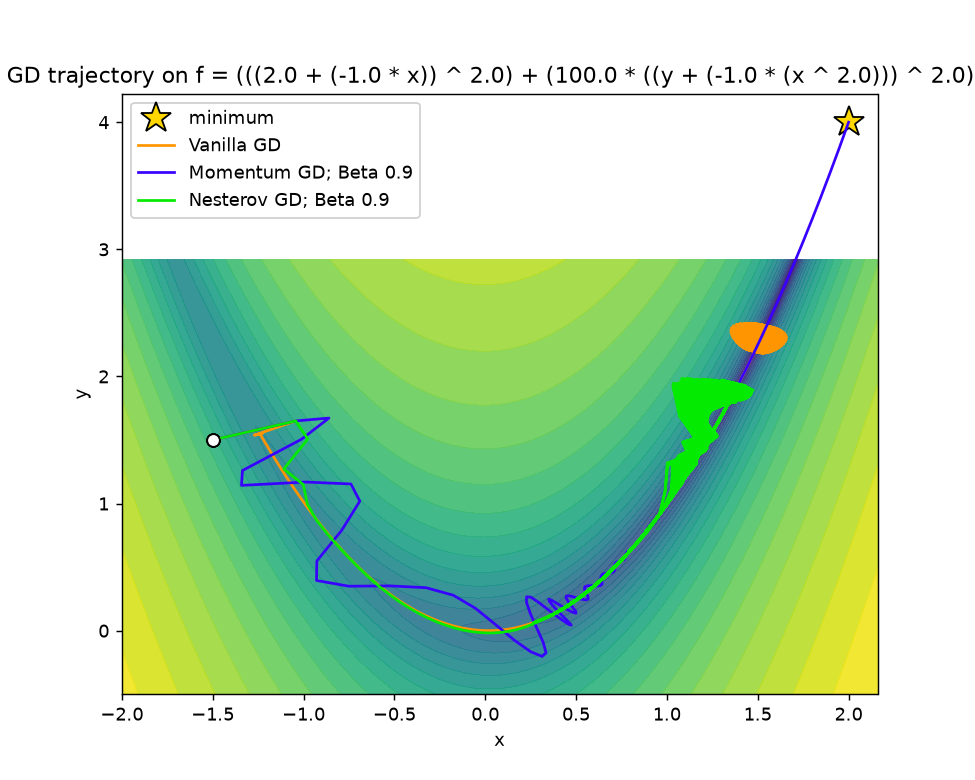
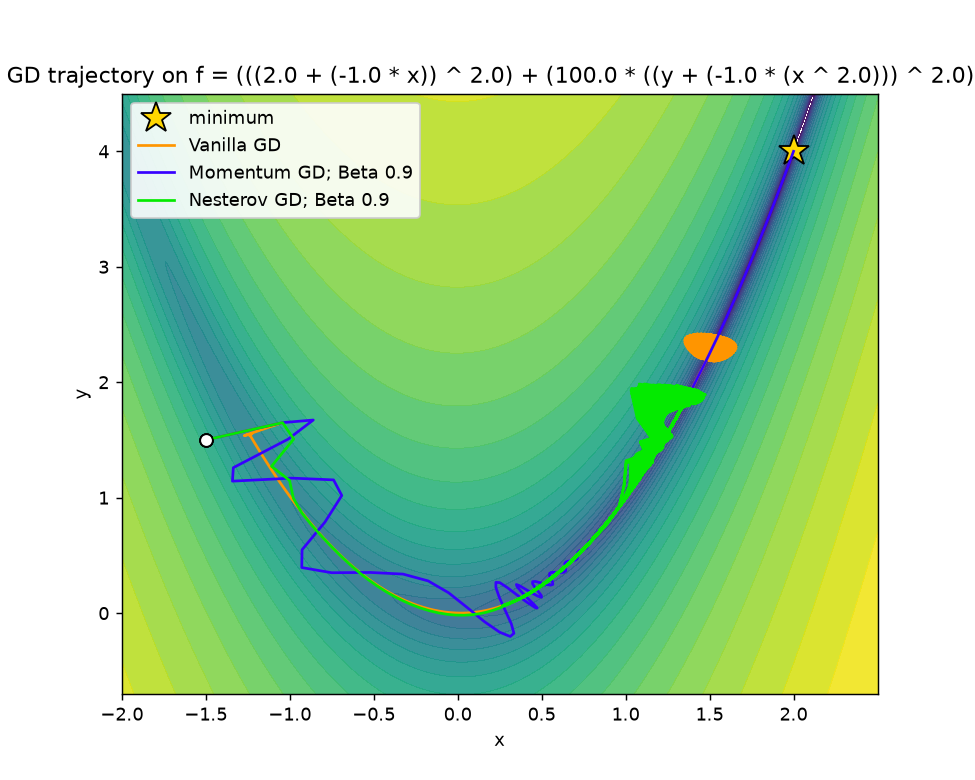
W5D2: fixing plot issue and unused tol_test check

diff --git a/phase_1_math/week_5/d2_gd_variants.py b/phase_1_math/week_5/d2_gd_variants.py
@@ -251,13 +251,12 @@ class GradientDescent():
                 feed_dict_grad[k] = points[idx]
 
             self.step_history_vanilla.append(points)
-            tol_test = self.step_history_vanilla[-2] - self.step_history_vanilla[-1]
             t += 1
 
-        check_step_size = abs(np.linalg.norm(tol_test))
-        if t < n_iters and check_step_size < tol:
+        check_grad = abs(np.linalg.norm(grad))
+        if t < n_iters and check_grad < tol:
             print(f"Vanilla Convergence achieved at {self.step_history_vanilla[-1]} on step {t}")
-        elif t == n_iters and check_step_size > tol:
+        elif t == n_iters and check_grad > tol:
             print(f"Vanilla GD failed to converge... Stuck at {self.step_history_vanilla[-1]} at step {t}")
     
     def run_momentum(self, alpha=0.001, beta=0.9, decay=0.0, n_iters=1000, tol=1e-6):
@@ -291,13 +290,12 @@ class GradientDescent():
                 feed_dict_grad[k] = points[idx]
 
             self.step_history_momentum.append(points)
-            tol_test = self.step_history_momentum[-2] - self.step_history_momentum[-1]
             t += 1
 
-        check_step_size = abs(np.linalg.norm(tol_test))
-        if t < n_iters and check_step_size < tol:
+        check_grad = abs(np.linalg.norm(grad))
+        if t < n_iters and check_grad < tol:
             print(f"Momentum GD Convergence achieved at {self.step_history_momentum[-1]} on step {t}")
-        elif t == n_iters and check_step_size > tol:
+        elif t == n_iters and check_grad > tol:
             print(f"Momentum GD failed to converge... Stuck at {self.step_history_momentum[-1]} at step {t}")
     
     def run_nesterov(self, alpha=0.001, beta=0.9, decay=0.0, n_iters=1000, tol=1e-6):
@@ -342,16 +340,15 @@ class GradientDescent():
             grad_check = np.array([partial.evaluate(feed_dict_grad) for partial in partial_derivatives])
             self.step_history_nesterov.append(points)
             curr_momentum = corrected_momentum
-            tol_test = self.step_history_nesterov[-2] - self.step_history_nesterov[-1]
             t += 1
         
-        check_step_size = abs(np.linalg.norm(tol_test))
-        if t < n_iters and check_step_size < tol:
+        check_grad = abs(np.linalg.norm(grad_check))
+        if t < n_iters and check_grad < tol:
             print(f"Nesterov GD Convergence achieved at {self.step_history_nesterov[-1]} on step {t}")
-        elif t == n_iters and check_step_size > tol:
+        elif t == n_iters and check_grad > tol:
             print(f"Nesterov GD failed to converge... Stuck at {self.step_history_nesterov[-1]} at step {t}")
     
-    def plot(self, history, ax=None, path_color="#ff9500", label=None, draw_field=True, minimum=None):
+    def plot(self, history, ax=None, path_color="#ff9500", label=None, draw_field=True, minimum=None, bounds=None):
         traj = np.array(history)
         xs, ys = traj[:, 0], traj[:, 1]
 
@@ -360,8 +357,12 @@ class GradientDescent():
         
         if draw_field:
             pad = 0.5
-            gx = np.linspace(xs.min() - pad, xs.max() + pad, 400)
-            gy = np.linspace(ys.min() - pad, ys.max() + pad, 400)
+            if bounds is not None:
+                xmin, xmax, ymin, ymax = bounds
+            else:
+                xmin, xmax, ymin, ymax = xs.min(), xs.max(), ys.min(), ys.max()
+            gx = np.linspace(xmin - pad, xmax + pad, 400)
+            gy = np.linspace(ymin - pad, ymax + pad, 400)
             GX, GY = np.meshgrid(gx, gy)
             Z = np.array([[self.eval_function([xv, yv]) for xv in gx] for yv in gy])
             levels = np.logspace(-1, np.log10(Z.max()), 25)
@@ -422,12 +423,16 @@ if __name__ == "__main__":
     gd_bowl.run_nesterov(beta=0.9, n_iters=20000)
 
     # Figure 1 — trajectory (shared spatial axes)
-    ax_traj = gd.plot(gd.step_history_vanilla, minimum=(2, 4), label="Vanilla GD", draw_field=True)
+    hist_r = np.vstack([gd.step_history_vanilla, gd.step_history_momentum, gd.step_history_nesterov])
+    bounds_r = (hist_r[:, 0].min(), hist_r[:, 0].max(), hist_r[:, 1].min(), hist_r[:, 1].max())
+    ax_traj = gd.plot(gd.step_history_vanilla, minimum=(2, 4), label="Vanilla GD", draw_field=True, bounds=bounds_r)
     gd.plot(gd.step_history_momentum, ax=ax_traj, path_color="#3700ff", label="Momentum GD; Beta 0.9", draw_field=False)
     gd.plot(gd.step_history_nesterov, ax=ax_traj, path_color="#04ea00", label="Nesterov GD; Beta 0.9", draw_field=False)
     ax_traj.figure.savefig("./figs/D2_rosenbrock_GD_trajectory.png", dpi=130)
 
-    axb_traj = gd_bowl.plot(gd_bowl.step_history_vanilla, minimum=(0, 0), label="Vanilla GD", draw_field=True)
+    hist_b = np.vstack([gd_bowl.step_history_vanilla, gd_bowl.step_history_momentum, gd_bowl.step_history_nesterov])
+    bounds_b = (hist_b[:, 0].min(), hist_b[:, 0].max(), hist_b[:, 1].min(), hist_b[:, 1].max())
+    axb_traj = gd_bowl.plot(gd_bowl.step_history_vanilla, minimum=(0, 0), label="Vanilla GD", draw_field=True, bounds=bounds_b)
     gd_bowl.plot(gd_bowl.step_history_momentum, ax=axb_traj, path_color="#3700ff", label="Momentum GD; Beta 0.9", draw_field=False)
     gd_bowl.plot(gd_bowl.step_history_nesterov, ax=axb_traj, path_color="#04ea00", label="Nesterov GD; Beta 0.9", draw_field=False)
     axb_traj.figure.savefig("./figs/D2_quadratic_GD_trajectory.png", dpi=130)
